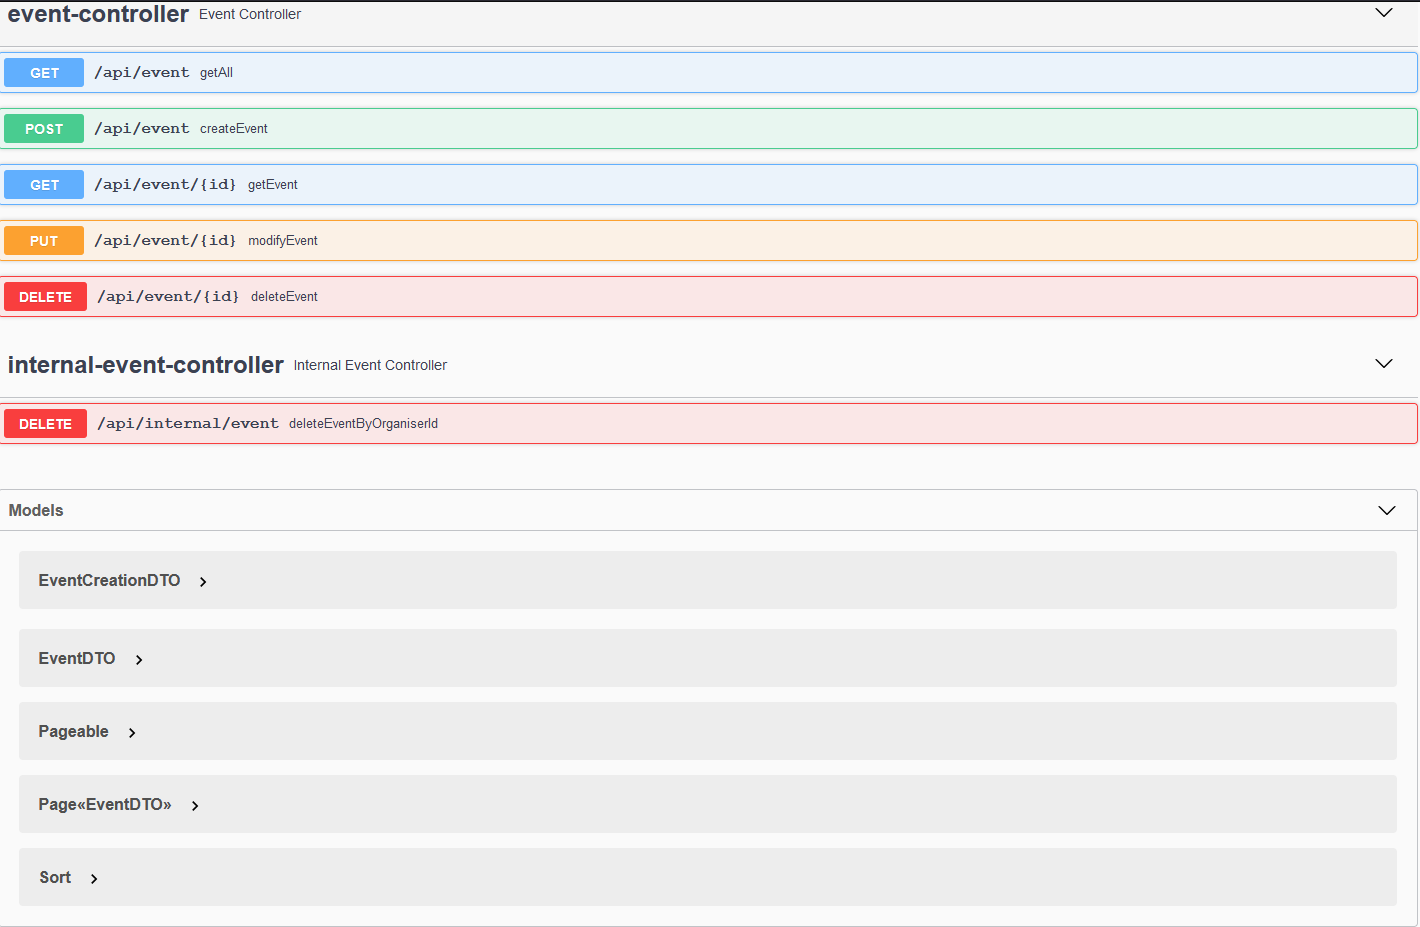
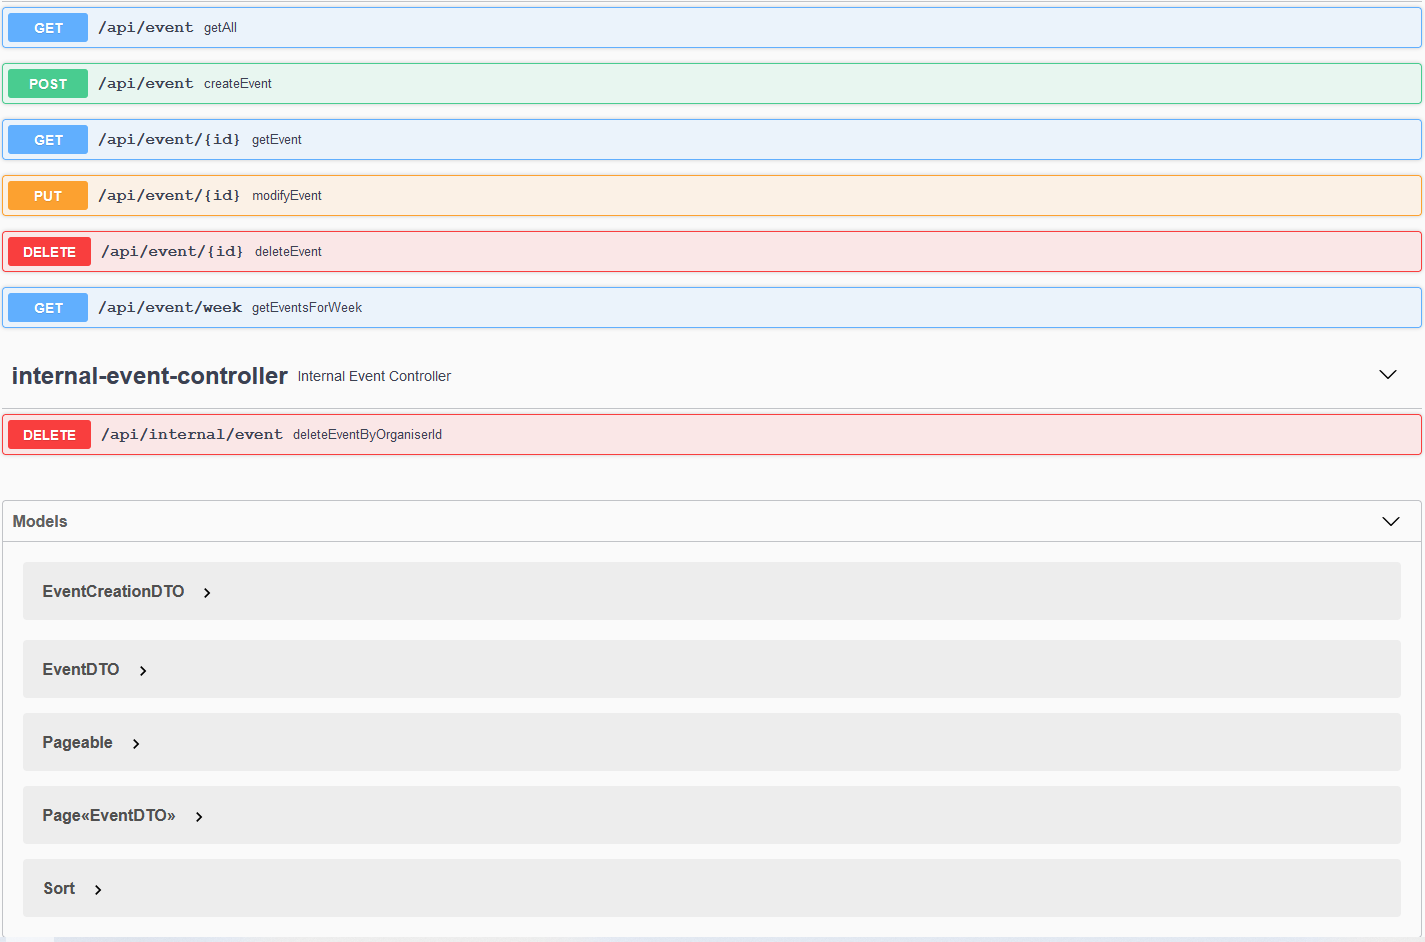
Added API to query events between 2 dates.

diff --git a/event-service/event-core/src/main/java/hu/bme/aut/gassys/event/presentation/EventController.java b/event-service/event-core/src/main/java/hu/bme/aut/gassys/event/presentation/EventController.java
@@ -17,6 +17,10 @@ import org.springframework.web.bind.annotation.*;
 import org.springframework.web.util.UriComponents;
 import org.springframework.web.util.UriComponentsBuilder;
 
+import java.time.Instant;
+import java.util.List;
+import java.util.stream.Collectors;
+
 @RestController
 @RequestMapping("/api/event")
 @Slf4j
@@ -98,5 +102,13 @@ public class EventController {
             log.error(e.getMessage());
             return ResponseEntity.badRequest().build();
         }
+    }
+
+    @GetMapping("/week")
+    public ResponseEntity<List<EventDTO>> getEventsForWeek(@RequestParam Instant startDate, @RequestParam Instant endDate) {
+        return ResponseEntity.ok(eventService.findEventsByWeek(startDate, endDate)
+                .stream()
+                .map(eventMapper::eventToEventDTO)
+                .collect(Collectors.toList()));
     }
 }

diff --git a/event-service/event-core/src/main/java/hu/bme/aut/gassys/event/data/EventRepository.java b/event-service/event-core/src/main/java/hu/bme/aut/gassys/event/data/EventRepository.java
@@ -2,6 +2,7 @@ package hu.bme.aut.gassys.event.data;
 
 import org.springframework.data.jpa.repository.JpaRepository;
 
+import java.time.Instant;
 import java.util.List;
 
 public interface EventRepository extends JpaRepository<EventEntity, Integer>{
@@ -9,4 +10,6 @@ public interface EventRepository extends JpaRepository<EventEntity, Integer>{
     void deleteEventEntitiesByOrganiserId(Integer organiserId);
 
     List<EventEntity> getEventEntitiesByOrganiserId(Integer organiserId);
+
+    List<EventEntity> getEventEntitiesByStartDateTimeBetween(Instant startDate, Instant EndDate);
 }

diff --git a/event-service/event-core/src/main/java/hu/bme/aut/gassys/event/service/EventService.java b/event-service/event-core/src/main/java/hu/bme/aut/gassys/event/service/EventService.java
@@ -16,6 +16,7 @@ import org.springframework.data.domain.Pageable;
 import org.springframework.stereotype.Service;
 
 import javax.transaction.Transactional;
+import java.time.Instant;
 import java.util.*;
 
 @Service
@@ -142,5 +143,8 @@ public class EventService {
         return eventRepository.save(entity);
     }
 
+    public List<EventEntity> findEventsByWeek(Instant startDate, Instant endDate) {
+        return eventRepository.getEventEntitiesByStartDateTimeBetween(startDate, endDate);
+    }
 
 }
